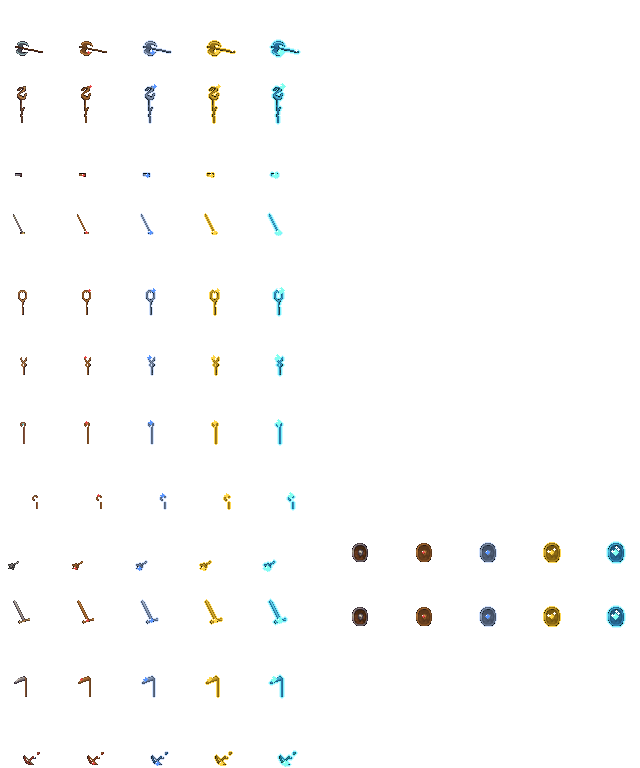
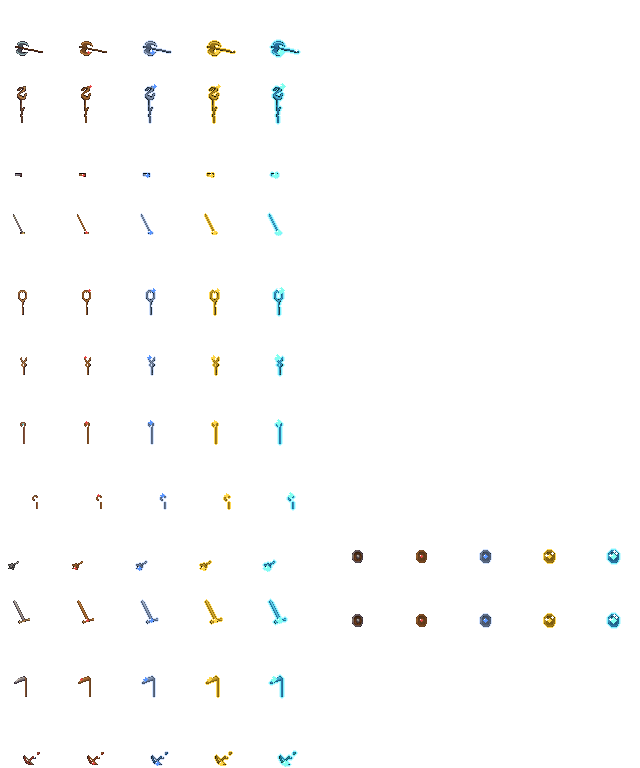
무기·방패 재정리: 새 팔 제거, 아바타 원래 오른손(피부 픽셀 자동 검출 107벌)에 손잡이 점 고정, 무기는 몸 뒤, 방패는 몸통 폭 약 70%로 줄여 턱선 아래·얼굴 중심선 뒤, 공격은 손만 최대 3px 이동(빈자리는 소매로), 얼굴 영역 가림 0 검증
Claude-Session: https://claude.ai/code/session_01HhJ2NoNCjk5kaA3GWL7UDs

diff --git a/tools/iso/lpc/weapon_lpc.py b/tools/iso/lpc/weapon_lpc.py
@@ -49,6 +49,15 @@ def scale_about(a, pv, sc):
         for x in range(n):
             if crisp[y, x] and 0 <= x + ox < 64 and 0 <= y + oy < 64: res[y + oy, x + ox] = (*np.clip(rgb[y, x], 0, 255).astype(np.uint8), 255)
     return res
+def fit_to(a, left, top, width):   # 방패: 가로 width px로 줄여서 (left, top)에 놓기 (몸통 폭의 약 70%, 턱선 아래·얼굴 중심선 뒤)
+    ys, xs = np.nonzero(a[..., 3] > 0); y0, y1, x0, x1 = ys.min(), ys.max() + 1, xs.min(), xs.max() + 1; c = a[y0:y1, x0:x1].astype(np.float32); al = c[..., 3:4] / 255
+    pm = np.concatenate([c[..., :3] * al, c[..., 3:4]], axis=2); k = width / (x1 - x0); n_w, n_h = width, max(1, round((y1 - y0) * k))
+    ch = [np.array(Image.fromarray(np.clip(pm[..., i], 0, 255).astype(np.uint8)).resize((n_w, n_h), Image.LANCZOS)).astype(np.float32) for i in range(4)]; out = np.stack(ch, axis=2); a2 = out[..., 3:4] / 255
+    rgb = np.where(a2 > .01, out[..., :3] / np.maximum(a2, .01), 0); res = np.zeros((64, 64, 4), np.uint8)
+    for y in range(n_h):
+        for x in range(n_w):
+            if out[y, x, 3] > 105 and 0 <= x + left < 64 and 0 <= y + top < 64: res[y + top, x + left] = (*np.clip(rgb[y, x], 0, 255).astype(np.uint8), 255)
+    return res
 def lerp_ramp(r, l):
     t = max(0, min(.999, l / 255)) * (len(r) - 1); i = int(t); f = t - i
     return [int(r[i][k] + (r[i + 1][k] - r[i][k]) * f) for k in range(3)]
@@ -103,7 +112,7 @@ for ji, job in enumerate(ORDER):
     XW[job] = [px, py, tx, ty, kind, 1 if shf else 0, gx, gy, phi0]
     sh = None
     if shf:
-        sh = merge([shf]); sy_, sx_ = np.nonzero(sh[..., 3] > 0); cx, cy = int(sx_.mean()), int(sy_.mean()); sh = scale_about(sh, (cx, cy), SSCALE)
+        sh = fit_to(merge([shf]), 32, 38, 11); sy_, sx_ = np.nonzero(sh[..., 3] > 0); cx, cy = int(sx_.mean()), int(sy_.mean())
     for n in range(5):
         c = tier(base, n, (tx, ty), (px, py), kind); sheet[ji * 64:(ji + 1) * 64, n * 64:(n + 1) * 64] = c; cc = c.copy()
         if sh is not None:
